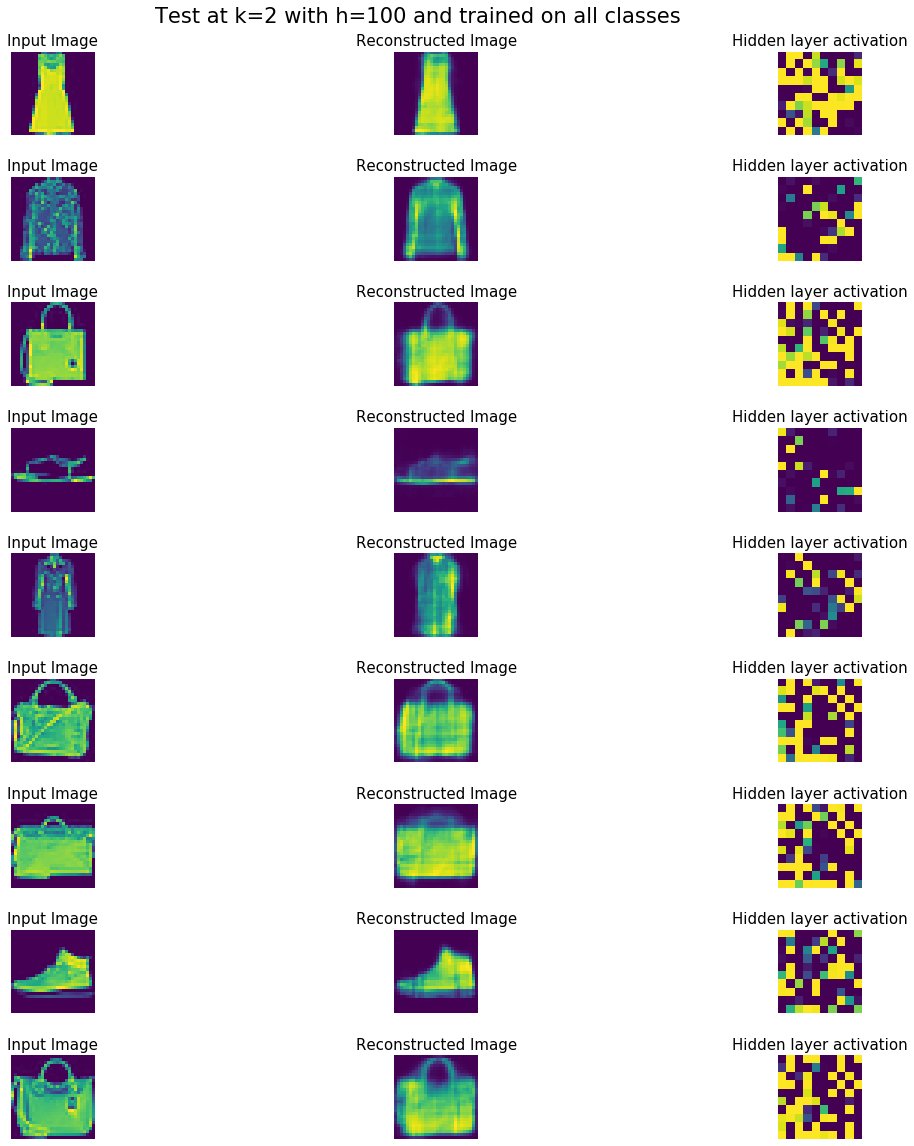
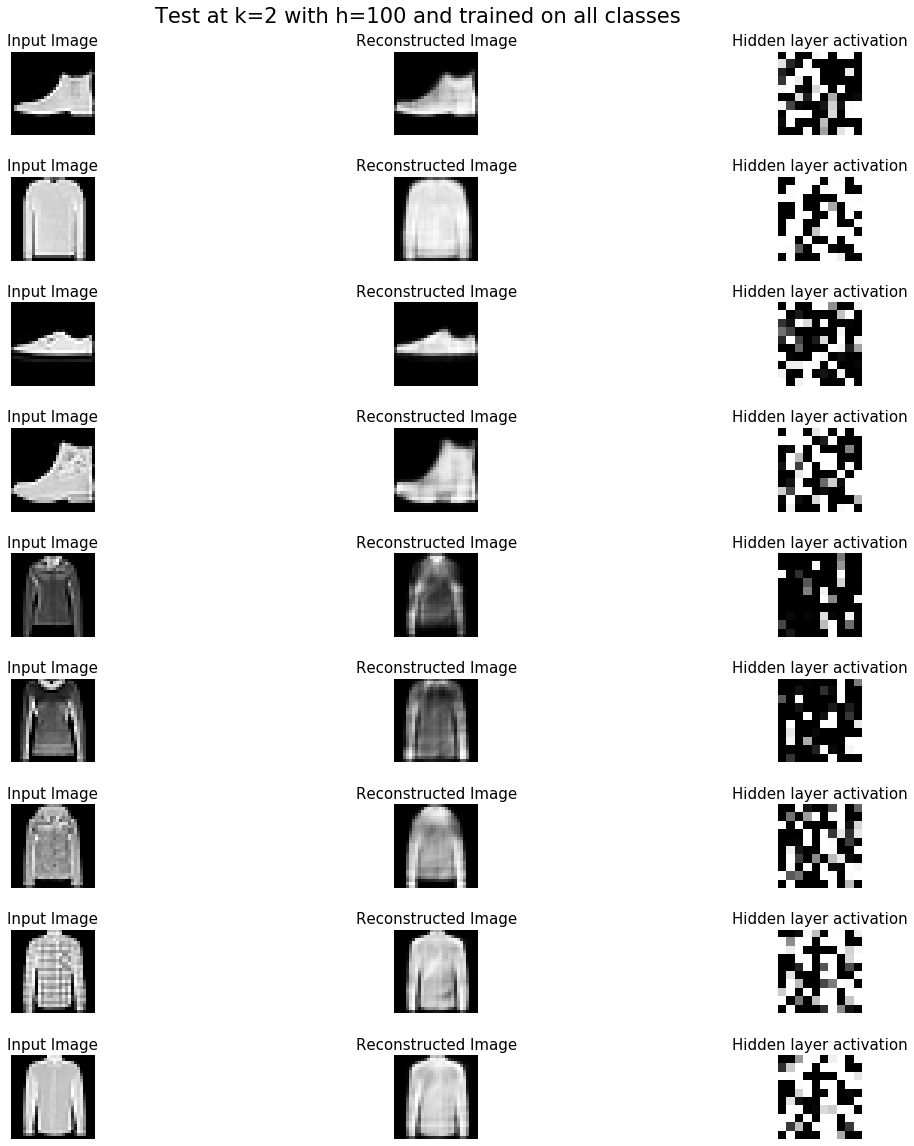
Added Song Attempt

diff --git a/Assignment 2/my_functions.py b/Assignment 2/my_functions.py
@@ -166,7 +166,7 @@ def Plot_Means(means):
     for k in range(K):  
         plt.figure(num=None, figsize=(18, 12), dpi=100, facecolor='w', edgecolor='k')    
         image=np.reshape(means[:,k],(side_len,side_len))
-        plt.imshow(image)
+        plt.imshow(image,cmap='gray')
         plt.show()
         
 #%% SUBPLOT OF INPUT IMAGES AND PREDICTIONS   
@@ -185,17 +185,17 @@ def MNIST_subplot1(Collect_Images,title_name):
         
     for i in range(how_many_samples):
         axs[itr].set_title("Input Image",fontsize=15)
-        axs[itr].imshow(OG[:,i].reshape(data_len,data_len))
+        axs[itr].imshow(OG[:,i].reshape(data_len,data_len),cmap='gray')
         axs[itr].axis('off')
         itr+=1
         
         axs[itr].set_title("Reconstructed Image",fontsize=15)
-        axs[itr].imshow(Recon[:,i].reshape(data_len,data_len))
+        axs[itr].imshow(Recon[:,i].reshape(data_len,data_len),cmap='gray')
         axs[itr].axis('off')
         itr+=1
         
         axs[itr].set_title("Hidden layer activation",fontsize=15)
-        axs[itr].imshow(hidden[:,i].reshape(hidden_len,hidden_len))
+        axs[itr].imshow(hidden[:,i].reshape(hidden_len,hidden_len),cmap='gray')
         axs[itr].axis('off')
         itr+=1
         
@@ -217,7 +217,7 @@ def MNIST_subplot2(Images,title_name,square_or_not):
         
     for i in range(how_many_plots):
         # axs[itr].set_title("Input Image",fontsize=15)
-        axs[i].imshow(Images[i,:].reshape(data_len,data_len))
+        axs[i].imshow(Images[i,:].reshape(data_len,data_len),cmap='gray')
         axs[i].axis('off')
         if square_or_not:
             continue
@@ -226,11 +226,93 @@ def MNIST_subplot2(Images,title_name,square_or_not):
             
     fig.text(0.5, 0.9, title_name, ha='center',fontsize=21)    
     print("Done dataset samples")   
+
+#%% SYNTHETIC DATASET
+def get_synthetic(N):
+    x=np.random.rand(N,2)
+    y=np.asarray(x[:,0]>x[:,1],dtype='float32')
+    y=np.expand_dims(y,axis=1)
+    y=np.hstack((y,y))
+    # y[y[:,0]==1,1]=0
+    return np.hstack((y,x))
+#%%
+import random
+def Get_Sythetic_Gauss(K,d,N,**kwargs): 
+    """ k= number of clusters.
+        d= number of dimensions
+        N number of points
+        kwargs=Set your own means,covariance matrices"""
     
+    means=kwargs.get('means',np.random.randint(-100,100,size=[d,K]))
+    covariance=kwargs.get('cov', get_random_cov(K,d))
+    # covariance=kwargs.get('cov', np.dstack([np.eye(d)]*K))
+    data=np.zeros((N,d+1))
+    
+    for n in range(N):
+        k=np.random.randint(0,K)
+        data[:,0]=k
+        data[n,1:]=np.random.multivariate_normal(means[:,k],covariance[:,:,k],size=1)
+
+    #% Normalizing
+    data_mean=np.mean(data[:,1:],axis=0)
+    data_std=np.std(data[:,1:],axis=0)
+    data[:,1:]=data[:,1:]-data_mean
+    data[:,1:]=data[:,1:]/data_std    
+    return data[:,1:],data[:,0]
+#%% Random covariance matricies            
+def get_random_cov(K,d):
+    from sklearn import datasets
+    cov=[]
+    for i in range(K):
+        temp=np.dstack([datasets.make_spd_matrix(d)*8])
+        cov.append(temp)
+    return np.dstack(cov)
+
+#%% AUDIO
+import os
+from glob import glob
+import librosa
+#%%
+def train_song():
+    """This functions yeilds each wav file in the dataset
+    if sample_rate_only==True, then it only gives a scalar sample rate"""
+    
+    #Go to the path where the dataset is stored
+    wav_data_path=os.path.relpath(os.path.join('MusicDatasets/Beethoven/MP3FILES'))
+    wav_data_files_list=glob(os.path.join(wav_data_path, "*.wav"))
+    #Get the audio in terms of frames of length 1000
+
+    for wav_file in wav_data_files_list:    
+        data, sampling_rate = librosa.load(wav_file)
+        frame_size=sampling_rate*5     # roughtly 45ms frames at 22kHz sampling rate
+        hop_length=int(frame_size/2)                  
+        frames = librosa.util.frame(data, frame_length=frame_size, hop_length=hop_length)
+        yield frames.T
+
+#%% SEED A SONG
+def seed_a_song(sample_length):
+    """This functions returns a portion of music from the dataset to seed into
+    reconstructing whatever the RBM has learned"""
+    
+    #Go to the path where the dataset is stored
+    wav_data_path=os.path.relpath(os.path.join('MusicDatasets/Beethoven/MP3FILES'))
+    wav_data_files_list=glob(os.path.join(wav_data_path, "*.wav"))
+    #Get the audio in terms of frames of length 1000
+    how_many_files=len(wav_data_files_list)
+    file_index=np.random.randint(0,high=how_many_files+1)
+    wav_file=wav_data_files_list[file_index]
+    
+    data, sampling_rate = librosa.load(wav_file)
+    
+    start_point=np.random.randint(0,(len(data)-sample_length))
+    end_point=start_point+sample_length    
+    return data[start_point:end_point]
+        
+        
 #%% RESTRICTED BOLTZMANN MACINE
 #Referrerence: https://github.com/NiteshMethani/Deep-Learning-CS7015/tree/master/RBM
 from time import time
-def rbm(dataset, num_hidden, learn_rate, epochs, k,batchsize):
+def rbm(dataset, num_hidden, learn_rate, epochs, k,batchsize,**kwargs):
    num_visible = dataset.shape[1]
    num_examples = dataset.shape[0]
    print("Training RBM with", num_visible, "visible units,",
@@ -239,9 +321,10 @@ def rbm(dataset, num_hidden, learn_rate, epochs, k,batchsize):
    start_time = time()
    batches = num_examples // batchsize
    
-   w = 0.1 * np.random.randn(num_visible, num_hidden)
-   a = np.zeros((1, num_visible))
-   b = -4.0 * np.ones((1, num_hidden))
+   w=kwargs.get('w',0.1 * np.random.randn(num_visible, num_hidden))
+   a=kwargs.get('a',np.zeros((1, num_visible)))
+   b=kwargs.get('b',-4.0 * np.ones((1, num_hidden)))
+
 
    w_inc = np.zeros((num_visible, num_hidden))
    a_inc = np.zeros((1, num_visible))

diff --git a/Assignment 2/Fashion_MNIST.py b/Assignment 2/Fashion_MNIST.py
@@ -10,7 +10,7 @@ import numpy as np
 import my_functions as mf
 #%% MAIN CODE
 
-# dataset=[4,3,8]
+dataset=[3,4,8]
 dataset="all"
 test_dataset="all"
 #%%
@@ -21,8 +21,8 @@ print("Got dataset")
 
 num_hidden_units=100
 learn_rate=0.01
-epochs=20
-k=2
+epochs=10
+k=1
 batchsize=30
 #%% RBM
 [w,a,b]=mf.rbm(train_data, num_hidden_units, learn_rate, epochs, k,batchsize)
@@ -43,8 +43,8 @@ Plot_Title2="Visualising weights for data trained on and trained on "+str(datase
 mf.MNIST_subplot2(w.T,Plot_Title2,square_or_not=True)
 #%%
 pick_random_images=np.random.randint(0,test_data.shape[0],100)
-# mf.MNIST_subplot2(test_data[pick_random_images,:],"The Fashion Data-Set",square_or_not=True)
+mf.MNIST_subplot2(test_data[pick_random_images,:],"The Fashion Data-Set",square_or_not=True)
 
-# mf.MNIST_subplot2(for_legend_plot,"Legend for the Fashion Data-Set",square_or_not=False)
+mf.MNIST_subplot2(for_legend_plot,"Legend for the Fashion Data-Set",square_or_not=False)
 
 
